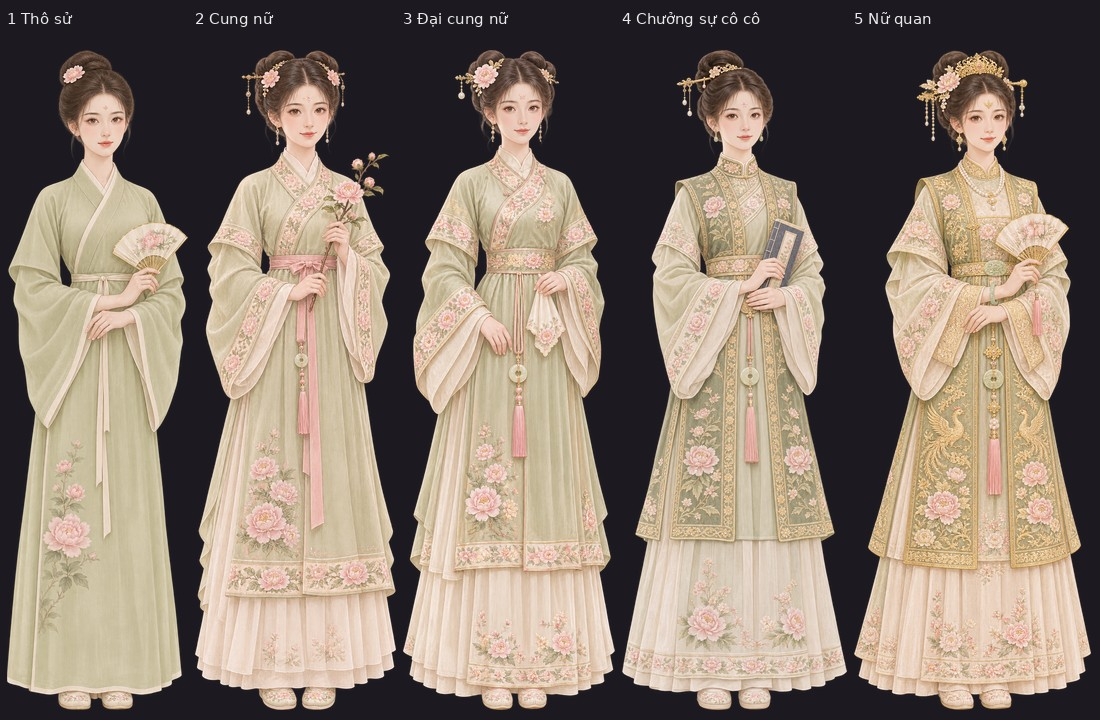
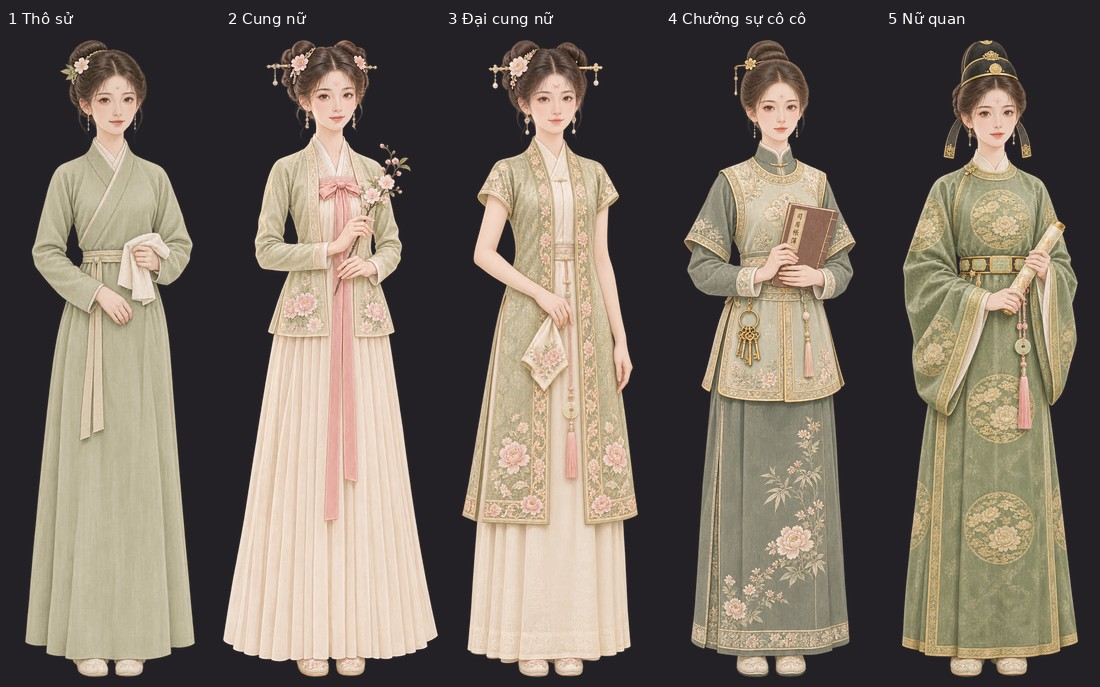
Maid rank standard v2: distinct garment per rank
Claude-Session: https://claude.ai/code/session_011xDdVRfTXkRr1K97oJueiZ

diff --git a/dev/handover/reports/fig-cutout-clean/rank-standard/maid-markers.md b/dev/handover/reports/fig-cutout-clean/rank-standard/maid-markers.md
@@ -1,7 +1,7 @@
-# Maid m01 a18 rank standard (identity ref = live fig-maid-m01-a18; game ranks SRK.maid in dev/build/all42.js, same names/order)
-Masters (Magnific gpt-2-6, 2k, transparentBackground, alpha 0..254 verified; not uploaded to CDN):
-1. Thô sử (fHGxdRDCDY): plain sage robe, thin cream edge, slim sash, one pink silk flower, no jewellery, folded fan.
-2. Cung nữ (CqzjXA2EEy): embroidered peony hem+cuff bands, pink sash with jade tassel, two flowers + small gold-tone pins, flower branch.
-3. Đại cung nữ (SymR5tsUb8): peony front panel over layered skirt, wide embroidered cuffs, brocade waistband, jade ring pendant, gold hairpin with pearl, handkerchief.
-4. Chưởng sự cô cô (mERKMZ9hJQ): deeper-sage sleeveless embroidered outer vest with gold trim, stand collar, jade pendant, gold hairpin + pearl drops, book.
-5. Nữ quan (WDlI6SNcXe): gold phoenix-peony embroidered vest, gold brocade, jade belt, gold hair comb with pearl drops, pearl necklace, jade bracelet, fan.
+# Maid m01 a18 rank standard v2 (owner: each rank a different garment). Ranks per SRK.maid in dev/build/all42.js. Identity ref = live fig-maid-m01-a18. Masters Magnific gpt-2-6 2k transparent (alpha 0..254), not on CDN.
+1. Thô sử (Ifi5rFxtvE): plain single-layer long cross-collar work robe, cloth belt, no embroidery, one small flower.
+2. Cung nữ (KLDO9wYkqp): SHORT hip-length jacket (ru) over long pleated cream skirt, pink chest ribbon, light embroidery on jacket hem, flower branch.
+3. Đại cung nữ (SymZzR7Ub8): knee-length short-sleeve brocade over-jacket (bei-zi) over cream inner + straight skirt, peony trim, jade pendant, gold pin, handkerchief.
+4. Chưởng sự cô cô (s78i2iml8e): stand-collar narrow-sleeve robe in grey-sage + half-sleeve office vest-apron with gold trim, brass keys, ledger.
+5. Nữ quan (huZ1Lx5vqL): round-collar (yuanlingpao) robe with gold roundels, jade-plaque belt, black-and-gold official headpiece, scroll.
+(Old v1 masters fHGxdRDCDY CqzjXA2EEy SymR5tsUb8 mERKMZ9hJQ WDlI6SNcXe superseded.)
